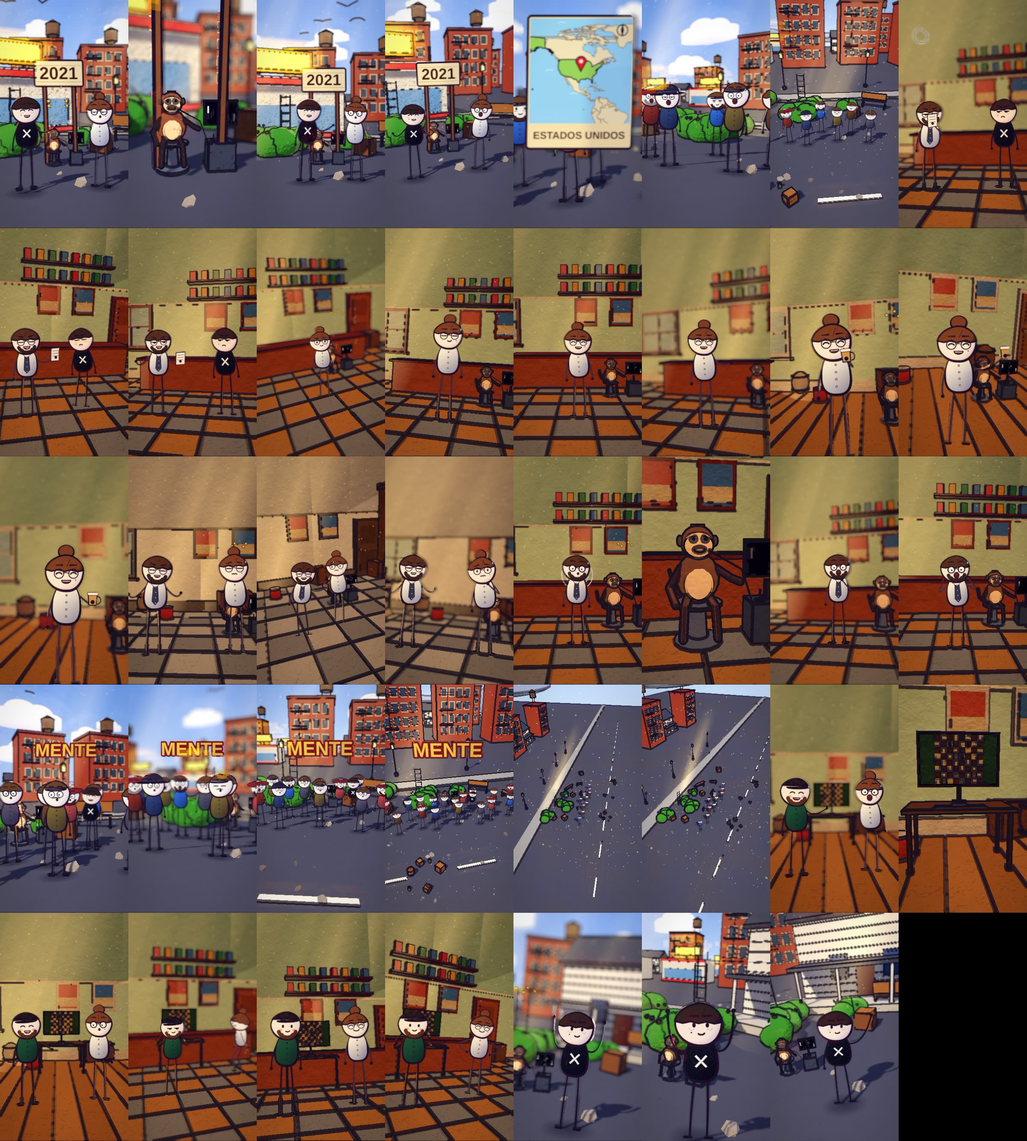
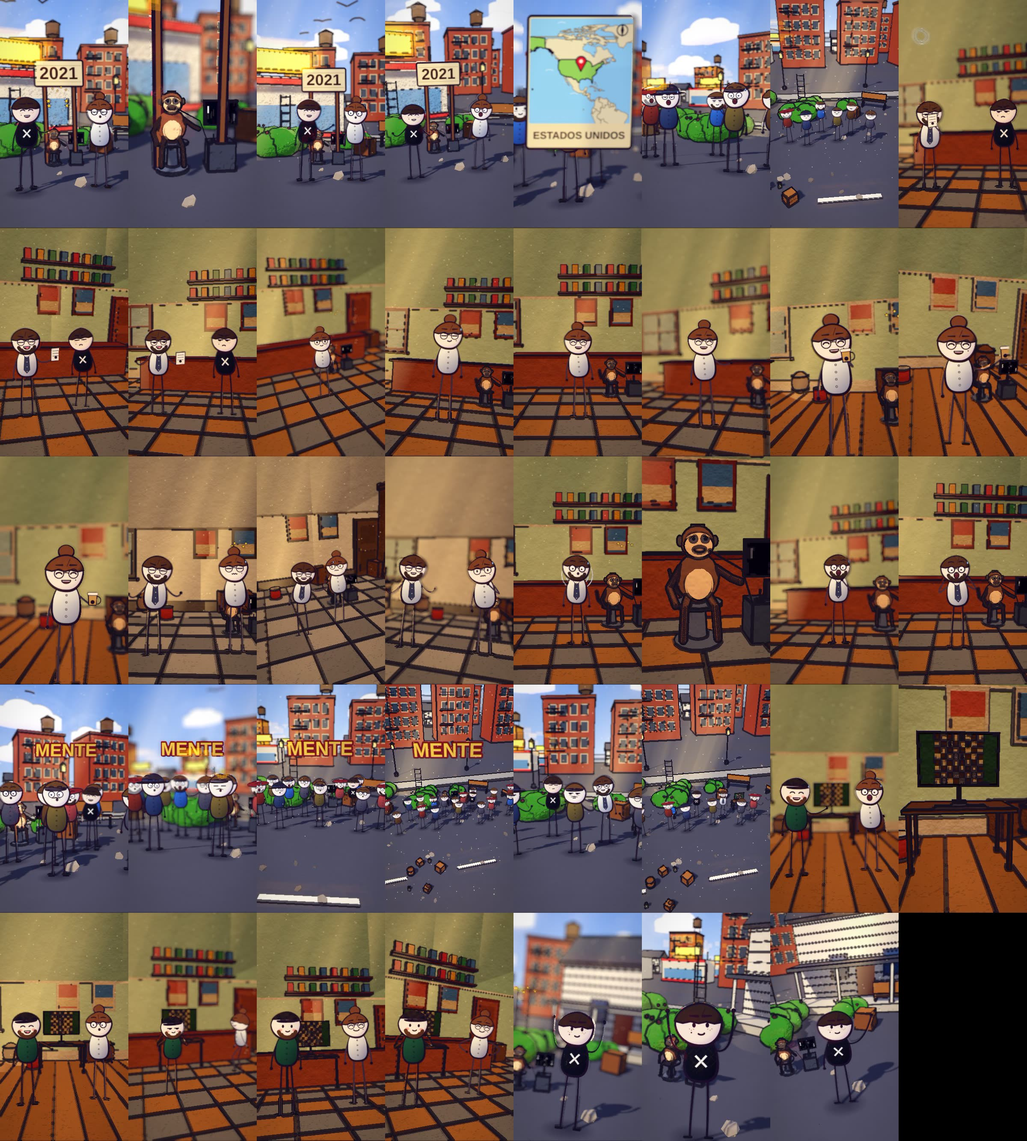
wrestlemania aprovado

Changed region(s): [[0.5, 0.5917, 0.75, 0.8098]]

diff --git a/ferramenta-shorts/stories/neuralink2021/spec.js b/ferramenta-shorts/stories/neuralink2021/spec.js
@@ -1,5 +1,5 @@
 // Poder e Fama EP 19 - O Macaco que Jogou Videogame com a Mente -- GERADO por mkvideo.py a partir de videos/neuralink2021/beats.json (edite o beats.json, nao este arquivo)
-globalThis.REGMAP = {"buildings/house_small": ["kit/rg_eua_1", "kit/rg_eua_2", "kit/rg_eua_3"], "buildings/house_two": ["kit/rg_eua_2", "kit/rg_eua_3", "kit/rg_eua_1"], "buildings/house_blue": ["kit/rg_eua_1", "kit/rg_eua_2", "kit/rg_eua_3"], "buildings/shop": ["kit/rg_eua_3", "kit/rg_eua_1", "kit/rg_eua_2"], "buildings/apartment": ["kit/rg_eua_1", "kit/rg_eua_2", "kit/rg_eua_3"], "buildings/church": ["kit/rg_eua_3", "kit/rg_eua_1", "kit/rg_eua_2"], "buildings/barn": ["kit/rg_eua_1", "kit/rg_eua_2", "kit/rg_eua_3"], "buildings/castle_tower": ["kit/rg_eua_3"], "buildings/windmill": ["kit/rg_eua_1"], "vehicles/tank": ["kit/tanque_moderno"], "ship": ["kit/navio_moderno"]}; globalThis.REGCHAO = "#6a6a70"; globalThis.ASFALTO = true; globalThis.PRAIA = false; globalThis.SEM_NAVIO = true;
+globalThis.REGMAP = {"buildings/house_small": ["kit/rg_eua_1", "kit/rg_eua_2", "kit/rg_eua_3"], "buildings/house_two": ["kit/rg_eua_2", "kit/rg_eua_3", "kit/rg_eua_1"], "buildings/house_blue": ["kit/rg_eua_1", "kit/rg_eua_2", "kit/rg_eua_3"], "buildings/shop": ["kit/rg_eua_3", "kit/rg_eua_1", "kit/rg_eua_2"], "buildings/apartment": ["kit/rg_eua_1", "kit/rg_eua_2", "kit/rg_eua_3"], "buildings/church": ["kit/rg_eua_3", "kit/rg_eua_1", "kit/rg_eua_2"], "buildings/barn": ["kit/rg_eua_1", "kit/rg_eua_2", "kit/rg_eua_3"], "buildings/castle_tower": ["kit/rg_eua_3"], "buildings/windmill": ["kit/rg_eua_1"], "vehicles/tank": ["kit/tanque_moderno"], "ship": ["kit/navio_moderno"]}; globalThis.REGCHAO = "#6a6a70"; globalThis.ASFALTO = true; globalThis.CAMPO_FUTEBOL = false; globalThis.PRAIA = false; globalThis.SEM_NAVIO = true;
 const X = 12000, DK = 6; const X_hall = 8000;
 const WS = (i, off = 0) => TIMING.words[Math.min(i, TIMING.words.length - 1)][0] + off;   // frame em que a palavra de indice i comeca
 const A = [0, WS(17, -3), WS(35, -3), WS(54, -3), WS(73, -3), WS(88, -3), WS(101, -3), WS(117, -3), WS(136, -3), WS(153, -3), WS(174, -3), WS(187, -3), TOTAL_F()];
@@ -21,7 +21,7 @@ const SPEC = {
     S('b5', A[5], A[6] - 1, X_hall, "study", { h: 2.3, d0: 8.4, d1: 7.4, vary: false, hero: { hero: 'any', frame: 'medium', minH: 0.07, main: 2 }, trans: 'dissolve', actors: [Object.assign(pp(X_hall, "CIM", 0, -1.15, 1.3, "suspicious", { pose: 'talk', inter: { k: 'lean', a: Math.round(A[5] + (A[6] - 1 - (A[5])) * 0.12), b: Math.round(A[5] + (A[6] - 1 - (A[5])) * 0.82), dir: 1, n: 2, ph: 0 } }), { gests: [[WS(92) - 4, WS(92) + 46, 'point']] }), pp(X_hall, "CIE", 0, 1.15, 1.0, "nervous", { pose: 'react', inter: { k: 'lean', a: Math.round(A[5] + (A[6] - 1 - (A[5])) * 0.2), b: Math.round(A[5] + (A[6] - 1 - (A[5])) * 0.9), dir: -1, n: 2, ph: 3.14 } })], props: [{ asset: "kit/room_eua_stone", at: [X_hall, 0], s: 1, drop: false }, { asset: "mk/Bookcase_2", at: [X_hall + 7.4, -3.4], s: 2.4, drop: false }, { asset: "mk/Table_Large", at: [X_hall + -6.6, -1.6], s: 2.2, drop: false }, { asset: "mk/Chair_1", at: [X_hall + -4.4, -1.2], s: 2.2, drop: false }, { asset: "mk/Chest_Wood", at: [X_hall + 6.9, 0.6], s: 2.2, drop: false }, { asset: "kit/monkey_pong", at: [X_hall + 1.6, -0.8], s: 1.1, drop: false }], fx: [{ k: 'stars', a: A[5] + 6, b: A[5] + 40, at: [X_hall + 1.6, DK + 1.6, -0.3], s: 0.8 }] }),
     S('b6', A[6], Math.round(A[6] + (A[7] - 1 + 1 - (A[6])) * 0.36) - 1, X_hall, "study", { h: 2.3, d0: 8.4, d1: 7.4, vary: false, hero: { hero: 'any', frame: 'medium', minH: 0.07, main: 1 }, trans: 'dissolve', actors: [Object.assign(pp(X_hall, "CIM", 0, 0.0, 1.3, "shock", { pose: 'react' }), { gests: [[WS(105) - 4, WS(105) + 46, 'reach']] })], props: [{ asset: "kit/room_eua_shop", at: [X_hall, 0], s: 1, drop: false }, { asset: "kit/monkey_pong", at: [X_hall + 1.9, -0.6], s: 1.5, drop: false }], fx: [{ k: 'stars', a: A[6] + 6, b: A[6] + 40, at: [X_hall + 1.9, DK + 1.6, -0.1], s: 0.8 }, { k: "ring", a: A[6] + 20, b: A[6] + 46, at: [X_hall, DK + 0.5, 1.2], s: 1.1 }, { k: "stars", a: A[6] + 50, b: A[6] + 76, at: [X_hall, DK + 0.5, 1.2], s: 1.1 }] }), { ...S('b6_d', Math.round(A[6] + (A[7] - 1 + 1 - (A[6])) * 0.36), Math.round(A[6] + (A[7] - 1 + 1 - (A[6])) * 0.6) - 1, X_hall, "study", { h: 2.3, d0: 8.4, d1: 7.4, vary: false, hero: { hero: 'none', detalhe: true }, trans: 'cut', actors: [Object.assign(pp(X_hall, "CIM", 0, 0.0, 1.3, "shock", { pose: 'react' }), { gests: [[WS(105) - 4, WS(105) + 46, 'reach']] })], props: [{ asset: "kit/room_eua_shop", at: [X_hall, 0], s: 1, drop: false }, { asset: "kit/monkey_pong", at: [X_hall + 1.9, -0.6], s: 1.5, drop: false }], fx: [{ k: 'stars', a: A[6] + 6, b: A[6] + 40, at: [X_hall + 1.9, DK + 1.6, -0.1], s: 0.8 }, { k: "ring", a: A[6] + 20, b: A[6] + 46, at: [X_hall, DK + 0.5, 1.2], s: 1.1 }, { k: "stars", a: A[6] + 50, b: A[6] + 76, at: [X_hall, DK + 0.5, 1.2], s: 1.1 }] }), cam: [{ f: Math.round(A[6] + (A[7] - 1 + 1 - (A[6])) * 0.36), at: [X_hall + 1.9, DK + 1.125, -0.6], d: 4.2, az: -14, el: 10, fov: 44 }, { f: Math.round(A[6] + (A[7] - 1 + 1 - (A[6])) * 0.6) - 1, at: [X_hall + 1.9, DK + 1.125, -0.6], d: 3.4, az: -8, el: 9, fov: 44 }], nocut: true, vary: false, glide: true, glideN: 34 }, { ...S('b6_v', Math.round(A[6] + (A[7] - 1 + 1 - (A[6])) * 0.6), A[7] - 1, X_hall, "study", { h: 2.3, d0: 8.4, d1: 7.4, vary: false, hero: { hero: 'any', frame: 'medium', minH: 0.07, main: 1 }, trans: 'cut', actors: [Object.assign(pp(X_hall, "CIM", 0, 0.0, 1.3, "shock", { pose: 'react' }), { gests: [[WS(105) - 4, WS(105) + 46, 'reach']] })], props: [{ asset: "kit/room_eua_shop", at: [X_hall, 0], s: 1, drop: false }, { asset: "kit/monkey_pong", at: [X_hall + 1.9, -0.6], s: 1.5, drop: false }], fx: [{ k: 'stars', a: A[6] + 6, b: A[6] + 40, at: [X_hall + 1.9, DK + 1.6, -0.1], s: 0.8 }, { k: "ring", a: A[6] + 20, b: A[6] + 46, at: [X_hall, DK + 0.5, 1.2], s: 1.1 }, { k: "stars", a: A[6] + 50, b: A[6] + 76, at: [X_hall, DK + 0.5, 1.2], s: 1.1 }] }), glide: true, glideN: 34 },
     { ...{ ...S('b7', A[7], Math.round(A[7] + (A[8] - 1 + 1 - (A[7])) * 0.3) - 1, X, "day", { h: 2.6, d0: 25.0, d1: 19.0, el: 11, cx: 0.0, cz: -1.5, hero: { hero: 'none', wide: true }, vary: false, nocut: true, trans: 'dissolve', actors: [Object.assign(pp(X, "POV", 0, -2.1, -0.4, "shock", { pose: 'react' }), { gests: [[WS(125) - 4, WS(129) - 4, 'point'], [WS(129) - 4, WS(129) + 46, 'point']] }), pp(X, "POV", 1, 0.0, 0.2, "surprised"), pp(X, "MUS", 0, 2.1, -0.8, "grin"), pp(X, "POV", 0, -8.05, 0.84, "surprised", { look: -0.25, seed: 0 }), pp(X, "POV", 1, -5.79, 1.32, "surprised", { look: 0.25, seed: 1 }), pp(X, "POV", 2, -3.53, 0.96, "surprised", { look: 0.0, seed: 2 }), pp(X, "POV", 3, -2.26, 1.44, "surprised", { look: 0.15, seed: 3 }), pp(X, "POV", 4, 0.0, 1.08, "surprised", { look: -0.25, seed: 0 }), pp(X, "POV", 5, 2.26, 1.56, "surprised", { look: 0.25, seed: 1 }), pp(X, "POV", 6, 3.53, 1.2, "surprised", { look: 0.0, seed: 2 }), pp(X, "POV", 0, 5.79, 0.84, "surprised", { look: 0.15, seed: 3 }), pp(X, "POV", 1, 8.05, 1.32, "surprised", { look: -0.25, seed: 0 }), pp(X, "POV", 2, -6.88, -1.14, "surprised", { look: 0.25, seed: 1 }), pp(X, "POV", 3, -4.62, -0.66, "surprised", { look: 0.0, seed: 2 }), pp(X, "POV", 4, -3.35, -1.02, "surprised", { look: 0.15, seed: 3 }), pp(X, "POV", 5, -1.09, -0.54, "surprised", { look: -0.25, seed: 0 }), pp(X, "POV", 6, 1.17, -0.9, "surprised", { look: 0.25, seed: 1 }), pp(X, "POV", 0, 2.44, -1.26, "surprised", { look: 0.0, seed: 2 }), pp(X, "POV", 1, 4.7, -0.78, "surprised", { look: 0.15, seed: 3 }), pp(X, "POV", 2, 6.96, -1.14, "surprised", { look: -0.25, seed: 0 }), pp(X, "POV", 3, 8.23, -0.66, "surprised", { look: 0.25, seed: 1 })], props: [{ asset: "kit/monkey_pong", at: [X + 0, -3.0], s: 1.4, drop: false }], fx: [{ k: 'birds', a: A[7], b: A[8] - 1, at: [X, DK + 6.0, -30], n: 5, dir: -1, off: 15 }, txt(X, WS(117, -2), A[8] - 1, "MENTE", '#e8c45a', '#7a1c1c', 4.8, { s: 1.5, up: 0.42 }), { k: "ring", a: A[7] + 30, b: A[7] + 56, at: [X, DK + 0.5, 1.2], s: 1.1 }] }), nocut: true }, cam: [{ f: A[7], at: [X + 0.0, DK + 2.2, 0.5], d: 8.5, az: -26, el: 2, fov: 44 }, { f: Math.round(A[7] + (A[8] - 1 + 1 - (A[7])) * 0.3) - 1, at: [X + 1.0, DK + 2.2, 0.5], d: 7.4, az: -14, el: 3, fov: 44 }], nocut: true, vary: false }, { ...{ ...S('b7_1', Math.round(A[7] + (A[8] - 1 + 1 - (A[7])) * 0.3), Math.round(A[7] + (A[8] - 1 + 1 - (A[7])) * 0.55) - 1, X, "day", { h: 2.6, d0: 25.0, d1: 19.0, el: 11, cx: 0.0, cz: -1.5, hero: { hero: 'none', wide: true }, vary: false, nocut: true, trans: 'cut', actors: [Object.assign(pp(X, "POV", 0, -2.1, -0.4, "shock", { pose: 'react' }), { gests: [[WS(125) - 4, WS(129) - 4, 'point'], [WS(129) - 4, WS(129) + 46, 'point']] }), pp(X, "POV", 1, 0.0, 0.2, "surprised"), pp(X, "MUS", 0, 2.1, -0.8, "grin"), pp(X, "POV", 0, -8.05, 0.84, "surprised", { look: -0.25, seed: 0 }), pp(X, "POV", 1, -5.79, 1.32, "surprised", { look: 0.25, seed: 1 }), pp(X, "POV", 2, -3.53, 0.96, "surprised", { look: 0.0, seed: 2 }), pp(X, "POV", 3, -2.26, 1.44, "surprised", { look: 0.15, seed: 3 }), pp(X, "POV", 4, 0.0, 1.08, "surprised", { look: -0.25, seed: 0 }), pp(X, "POV", 5, 2.26, 1.56, "surprised", { look: 0.25, seed: 1 }), pp(X, "POV", 6, 3.53, 1.2, "surprised", { look: 0.0, seed: 2 }), pp(X, "POV", 0, 5.79, 0.84, "surprised", { look: 0.15, seed: 3 }), pp(X, "POV", 1, 8.05, 1.32, "surprised", { look: -0.25, seed: 0 }), pp(X, "POV", 2, -6.88, -1.14, "surprised", { look: 0.25, seed: 1 }), pp(X, "POV", 3, -4.62, -0.66, "surprised", { look: 0.0, seed: 2 }), pp(X, "POV", 4, -3.35, -1.02, "surprised", { look: 0.15, seed: 3 }), pp(X, "POV", 5, -1.09, -0.54, "surprised", { look: -0.25, seed: 0 }), pp(X, "POV", 6, 1.17, -0.9, "surprised", { look: 0.25, seed: 1 }), pp(X, "POV", 0, 2.44, -1.26, "surprised", { look: 0.0, seed: 2 }), pp(X, "POV", 1, 4.7, -0.78, "surprised", { look: 0.15, seed: 3 }), pp(X, "POV", 2, 6.96, -1.14, "surprised", { look: -0.25, seed: 0 }), pp(X, "POV", 3, 8.23, -0.66, "surprised", { look: 0.25, seed: 1 })], props: [{ asset: "kit/monkey_pong", at: [X + 0, -3.0], s: 1.4, drop: false }], fx: [{ k: 'birds', a: A[7], b: A[8] - 1, at: [X, DK + 6.0, -30], n: 5, dir: -1, off: 15 }, txt(X, WS(117, -2), A[8] - 1, "MENTE", '#e8c45a', '#7a1c1c', 4.8, { s: 1.5, up: 0.42 }), { k: "ring", a: A[7] + 30, b: A[7] + 56, at: [X, DK + 0.5, 1.2], s: 1.1 }] }), nocut: true }, cam: [{ f: Math.round(A[7] + (A[8] - 1 + 1 - (A[7])) * 0.3), at: [X + -6.0, DK + 1.8, 0.0], d: 11, az: 30, el: 5, fov: 46 }, { f: Math.round(A[7] + (A[8] - 1 + 1 - (A[7])) * 0.55) - 1, at: [X + 4.0, DK + 1.8, 0.0], d: 11, az: 18, el: 5, fov: 46, ease: "lin" }], nocut: true, vary: false, glide: true }, { ...{ ...S('b7_2', Math.round(A[7] + (A[8] - 1 + 1 - (A[7])) * 0.55), A[8] - 1, X, "day", { h: 2.6, d0: 25.0, d1: 19.0, el: 11, cx: 0.0, cz: -1.5, hero: { hero: 'none', wide: true }, vary: false, nocut: true, trans: 'cut', actors: [Object.assign(pp(X, "POV", 0, -2.1, -0.4, "shock", { pose: 'react' }), { gests: [[WS(125) - 4, WS(129) - 4, 'point'], [WS(129) - 4, WS(129) + 46, 'point']] }), pp(X, "POV", 1, 0.0, 0.2, "surprised"), pp(X, "MUS", 0, 2.1, -0.8, "grin"), pp(X, "POV", 0, -8.05, 0.84, "surprised", { look: -0.25, seed: 0 }), pp(X, "POV", 1, -5.79, 1.32, "surprised", { look: 0.25, seed: 1 }), pp(X, "POV", 2, -3.53, 0.96, "surprised", { look: 0.0, seed: 2 }), pp(X, "POV", 3, -2.26, 1.44, "surprised", { look: 0.15, seed: 3 }), pp(X, "POV", 4, 0.0, 1.08, "surprised", { look: -0.25, seed: 0 }), pp(X, "POV", 5, 2.26, 1.56, "surprised", { look: 0.25, seed: 1 }), pp(X, "POV", 6, 3.53, 1.2, "surprised", { look: 0.0, seed: 2 }), pp(X, "POV", 0, 5.79, 0.84, "surprised", { look: 0.15, seed: 3 }), pp(X, "POV", 1, 8.05, 1.32, "surprised", { look: -0.25, seed: 0 }), pp(X, "POV", 2, -6.88, -1.14, "surprised", { look: 0.25, seed: 1 }), pp(X, "POV", 3, -4.62, -0.66, "surprised", { look: 0.0, seed: 2 }), pp(X, "POV", 4, -3.35, -1.02, "surprised", { look: 0.15, seed: 3 }), pp(X, "POV", 5, -1.09, -0.54, "surprised", { look: -0.25, seed: 0 }), pp(X, "POV", 6, 1.17, -0.9, "surprised", { look: 0.25, seed: 1 }), pp(X, "POV", 0, 2.44, -1.26, "surprised", { look: 0.0, seed: 2 }), pp(X, "POV", 1, 4.7, -0.78, "surprised", { look: 0.15, seed: 3 }), pp(X, "POV", 2, 6.96, -1.14, "surprised", { look: -0.25, seed: 0 }), pp(X, "POV", 3, 8.23, -0.66, "surprised", { look: 0.25, seed: 1 })], props: [{ asset: "kit/monkey_pong", at: [X + 0, -3.0], s: 1.4, drop: false }], fx: [{ k: 'birds', a: A[7], b: A[8] - 1, at: [X, DK + 6.0, -30], n: 5, dir: -1, off: 15 }, txt(X, WS(117, -2), A[8] - 1, "MENTE", '#e8c45a', '#7a1c1c', 4.8, { s: 1.5, up: 0.42 }), { k: "ring", a: A[7] + 30, b: A[7] + 56, at: [X, DK + 0.5, 1.2], s: 1.1 }] }), nocut: true }, cam: [{ f: Math.round(A[7] + (A[8] - 1 + 1 - (A[7])) * 0.55), at: [X + 0.0, DK + 1.4, 0.0], d: 15, az: 8, el: 12, fov: 48 }, { f: A[8] - 1, at: [X + 0.0, DK + 1.0, -3.0], d: 34, az: -16, el: 30, fov: 48 }], nocut: true, vary: false, glide: true },
-    { ...S('b8', A[8], A[9] - 1, X, "day", { h: 1.0, d0: 62.0, d1: 52.0, el: 40, fov: 56, az0: -78, az1: -64, cx: 0.0, cz: -1.5, hero: { hero: 'none', wide: true }, vary: false, nocut: true, trans: 'dissolve', actors: [pp(X, "MUS", 0, -1.15, -0.4, "smug", { pose: 'argue' }), pp(X, "CIM", 0, 1.15, 0.2, "grin", { pose: 'argue' }), pp(X, "POV", 0, -8.05, 0.84, "neutral", { look: -0.25, seed: 0, pose: 'argue' }), pp(X, "POV", 1, -5.79, 1.32, "neutral", { look: 0.25, seed: 4, pose: 'argue' }), pp(X, "POV", 2, -3.53, 0.96, "neutral", { look: 0.0, seed: 8, pose: 'argue' }), pp(X, "POV", 3, -2.26, 1.44, "neutral", { look: 0.15, seed: 12, pose: 'argue' }), pp(X, "POV", 4, 0.0, 1.08, "neutral", { look: -0.25, seed: 12, pose: 'argue' }), pp(X, "POV", 5, 2.26, 1.56, "neutral", { look: 0.25, seed: 16, pose: 'argue' }), pp(X, "POV", 6, 3.53, 1.2, "neutral", { look: 0.0, seed: 20, pose: 'argue' }), pp(X, "POV", 0, 5.79, 0.84, "neutral", { look: 0.15, seed: 24, pose: 'argue' })], props: [{ asset: "kit/chess_pc", at: [X + 3.15, -1.2], s: 1.0, drop: false }, { asset: "kit/phone", at: [X + -3.15, -0.8], s: 1.0, drop: false }], fx: [{ k: 'birds', a: A[8], b: A[9] - 1, at: [X, DK + 7.5, -30], n: 6, dir: 1, off: 8 }] }), nocut: true },
+    { ...{ ...S('b8', A[8], A[9] - 1, X, "day", { h: 2.4, d0: 11.0, d1: 27.0, el: 10, fov: 46, cx: 0.0, cz: -1.5, hero: { hero: 'none', wide: true }, vary: false, nocut: true, trans: 'dissolve', actors: [pp(X, "MUS", 0, -1.15, -0.4, "smug", { pose: 'argue' }), pp(X, "CIM", 0, 1.15, 0.2, "grin", { pose: 'argue' }), pp(X, "POV", 0, -8.05, 0.84, "neutral", { look: -0.25, seed: 0, pose: 'argue' }), pp(X, "POV", 1, -5.79, 1.32, "neutral", { look: 0.25, seed: 4, pose: 'argue' }), pp(X, "POV", 2, -3.53, 0.96, "neutral", { look: 0.0, seed: 8, pose: 'argue' }), pp(X, "POV", 3, -2.26, 1.44, "neutral", { look: 0.15, seed: 12, pose: 'argue' }), pp(X, "POV", 4, 0.0, 1.08, "neutral", { look: -0.25, seed: 12, pose: 'argue' }), pp(X, "POV", 5, 2.26, 1.56, "neutral", { look: 0.25, seed: 16, pose: 'argue' }), pp(X, "POV", 6, 3.53, 1.2, "neutral", { look: 0.0, seed: 20, pose: 'argue' }), pp(X, "POV", 0, 5.79, 0.84, "neutral", { look: 0.15, seed: 24, pose: 'argue' })], props: [{ asset: "kit/chess_pc", at: [X + 3.15, -1.2], s: 1.0, drop: false }, { asset: "kit/phone", at: [X + -3.15, -0.8], s: 1.0, drop: false }], fx: [{ k: 'birds', a: A[8], b: A[9] - 1, at: [X, DK + 7.5, -30], n: 6, dir: 1, off: 8 }] }), nocut: true }, cam: [{ f: A[8], at: [X + 0.0, DK + 2.0, 0.5], d: 9, az: 10, el: 5, fov: 46 }, { f: A[9] - 1, at: [X + 0.0, DK + 1.0, -2.0], d: 30, az: -14, el: 30, fov: 48 }], nocut: true },
     S('b9', A[9], Math.round(A[9] + (A[10] - 1 + 1 - (A[9])) * 0.36) - 1, X_hall, "study", { h: 2.3, d0: 8.4, d1: 7.4, vary: false, hero: { hero: 'any', frame: 'medium', minH: 0.07, main: 2 }, trans: 'dissolve', actors: [Object.assign(pp(X_hall, "NOL", 0, -1.15, 1.3, "grin", { pose: 'talk', inter: { k: 'step', a: Math.round(A[9] + (A[10] - 1 - (A[9])) * 0.12), b: Math.round(A[9] + (A[10] - 1 - (A[9])) * 0.82), dir: 1, n: 2, ph: 0 } }), { gests: [[WS(164) - 4, WS(173) - 4, 'reach'], [WS(173) - 4, WS(173) + 46, 'think']] }), pp(X_hall, "CIE", 0, 1.15, 1.0, "surprised", { pose: 'talk', inter: { k: 'nod', a: Math.round(A[9] + (A[10] - 1 - (A[9])) * 0.2), b: Math.round(A[9] + (A[10] - 1 - (A[9])) * 0.9), dir: -1, n: 2, ph: 3.14 } })], props: [{ asset: "kit/room_eua_wood", at: [X_hall, 0], s: 1, drop: false }, { asset: "mk/Bookcase_2", at: [X_hall + 7.4, -3.4], s: 2.4, drop: false }, { asset: "mk/Table_Large", at: [X_hall + -6.6, -1.6], s: 2.2, drop: false }, { asset: "mk/Chair_1", at: [X_hall + -4.4, -1.2], s: 2.2, drop: false }, { asset: "mk/Chest_Wood", at: [X_hall + 6.9, 0.6], s: 2.2, drop: false }, { asset: "kit/chess_pc", at: [X_hall + 0.0, -2.3], s: 1.7, drop: false }], fx: [{ k: "stars", a: A[9] + 40, b: A[9] + 66, at: [X_hall, DK + 0.5, 1.2], s: 1.1 }, { k: 'ring', a: WS(173) + 6, b: WS(173) + 34, at: [X_hall + -1.15, DK + 3.6, 1.5], s: 0.7 }] }), { ...S('b9_d', Math.round(A[9] + (A[10] - 1 + 1 - (A[9])) * 0.36), Math.round(A[9] + (A[10] - 1 + 1 - (A[9])) * 0.6) - 1, X_hall, "study", { h: 2.3, d0: 8.4, d1: 7.4, vary: false, hero: { hero: 'none', detalhe: true }, trans: 'cut', actors: [Object.assign(pp(X_hall, "NOL", 0, -1.15, 1.3, "grin", { pose: 'stand' }), { gests: [[WS(164) - 4, WS(173) - 4, 'reach'], [WS(173) - 4, WS(173) + 46, 'think']] }), pp(X_hall, "CIE", 0, 1.15, 1.0, "surprised", { pose: 'stand' })], props: [{ asset: "kit/room_eua_wood", at: [X_hall, 0], s: 1, drop: false }, { asset: "mk/Bookcase_2", at: [X_hall + 7.4, -3.4], s: 2.4, drop: false }, { asset: "mk/Table_Large", at: [X_hall + -6.6, -1.6], s: 2.2, drop: false }, { asset: "mk/Chair_1", at: [X_hall + -4.4, -1.2], s: 2.2, drop: false }, { asset: "mk/Chest_Wood", at: [X_hall + 6.9, 0.6], s: 2.2, drop: false }, { asset: "kit/chess_pc", at: [X_hall + 0.0, -2.3], s: 1.7, drop: false }], fx: [{ k: "stars", a: A[9] + 40, b: A[9] + 66, at: [X_hall, DK + 0.5, 1.2], s: 1.1 }, { k: 'ring', a: WS(173) + 6, b: WS(173) + 34, at: [X_hall + -1.15, DK + 3.6, 1.5], s: 0.7 }] }), cam: [{ f: Math.round(A[9] + (A[10] - 1 + 1 - (A[9])) * 0.36), at: [X_hall + 0.0, DK + 1.275, -2.3], d: 4.2, az: -14, el: 10, fov: 44 }, { f: Math.round(A[9] + (A[10] - 1 + 1 - (A[9])) * 0.6) - 1, at: [X_hall + 0.0, DK + 1.275, -2.3], d: 3.4, az: -8, el: 9, fov: 44 }], nocut: true, vary: false, glide: true, glideN: 34 }, { ...S('b9_v', Math.round(A[9] + (A[10] - 1 + 1 - (A[9])) * 0.6), A[10] - 1, X_hall, "study", { h: 2.3, d0: 8.4, d1: 7.4, vary: false, hero: { hero: 'any', frame: 'medium', minH: 0.07, main: 2 }, trans: 'cut', actors: [Object.assign(pp(X_hall, "NOL", 0, -1.15, 1.3, "grin", { pose: 'talk', inter: { k: 'step', a: Math.round(A[9] + (A[10] - 1 - (A[9])) * 0.12), b: Math.round(A[9] + (A[10] - 1 - (A[9])) * 0.82), dir: 1, n: 2, ph: 0 } }), { gests: [[WS(164) - 4, WS(173) - 4, 'reach'], [WS(173) - 4, WS(173) + 46, 'think']] }), pp(X_hall, "CIE", 0, 1.15, 1.0, "surprised", { pose: 'talk', inter: { k: 'nod', a: Math.round(A[9] + (A[10] - 1 - (A[9])) * 0.2), b: Math.round(A[9] + (A[10] - 1 - (A[9])) * 0.9), dir: -1, n: 2, ph: 3.14 } })], props: [{ asset: "kit/room_eua_wood", at: [X_hall, 0], s: 1, drop: false }, { asset: "mk/Bookcase_2", at: [X_hall + 7.4, -3.4], s: 2.4, drop: false }, { asset: "mk/Table_Large", at: [X_hall + -6.6, -1.6], s: 2.2, drop: false }, { asset: "mk/Chair_1", at: [X_hall + -4.4, -1.2], s: 2.2, drop: false }, { asset: "mk/Chest_Wood", at: [X_hall + 6.9, 0.6], s: 2.2, drop: false }, { asset: "kit/chess_pc", at: [X_hall + 0.0, -2.3], s: 1.7, drop: false }], fx: [{ k: "stars", a: A[9] + 40, b: A[9] + 66, at: [X_hall, DK + 0.5, 1.2], s: 1.1 }, { k: 'ring', a: WS(173) + 6, b: WS(173) + 34, at: [X_hall + -1.15, DK + 3.6, 1.5], s: 0.7 }] }), glide: true, glideN: 34 },
     S('b10', A[10], A[11] - 1, X_hall, "study", { h: 2.3, d0: 8.4, d1: 7.4, hero: { hero: 'any', frame: 'medium', minH: 0.07, main: 2 }, trans: 'dissolve', actors: [pp(X_hall, "NOL", 0, -1.15, 1.3, "smile", { pose: 'react', inter: { k: 'lunge', a: Math.round(A[10] + (A[11] - 1 - (A[10])) * 0.12), b: Math.round(A[10] + (A[11] - 1 - (A[10])) * 0.82), dir: 1, n: 2, ph: 0 } }), { outfit: "CIE", v: 0, at: [X_hall + 3.55, -0.6], move: [[X_hall + 1.15, 1.0], A[10], Math.round(A[10] + Math.min(48, (A[11] - 1 - (A[10])) * 0.3)), 'lin'], arrive: true, walk: "stroll", look: -0.4, expr: "happy" }], props: [{ asset: "kit/room_eua_shop", at: [X_hall, 0], s: 1, drop: false }, { asset: "kit/chess_pc", at: [X_hall + 0.0, -1.6], s: 1.7, drop: false }], fx: [{ k: "stars", a: A[10] + 40, b: A[10] + 66, at: [X_hall, DK + 0.5, 1.2], s: 1.1 }] }),
     S('b11', A[11], A[12] - 1, X, "day", { h: 2.4, d0: 5.6, d1: 4.9, hero: { hero: 'any', frame: 'medium', minH: 0.07, main: 1 }, trans: 'dissolve', actors: [pp(X, "MUS", 0, 0.0, 1.3, "smile", { pose: 'cheer' })], props: [{ asset: "buildings/house_two", at: [X + 4.8, -11.0], s: 1.05, ry: -0.35, drop: false }, { asset: "kit/monkey_pong", at: [X + -1.4, -0.8], s: 1.0, drop: false }], fx: [{ k: 'stars', a: A[11] + 6, b: A[11] + 40, at: [X + -1.4, DK + 1.6, -0.3], s: 0.8 }] })

diff --git a/ferramenta-shorts/stories/trumpgame1989/spec.js b/ferramenta-shorts/stories/trumpgame1989/spec.js
@@ -1,5 +1,5 @@
 // Poder e Fama EP 18 - O Jogo de Tabuleiro do Trump -- GERADO por mkvideo.py a partir de videos/trumpgame1989/beats.json (edite o beats.json, nao este arquivo)
-globalThis.REGMAP = {"buildings/house_small": ["kit/rg_eua_1", "kit/rg_eua_2", "kit/rg_eua_3"], "buildings/house_two": ["kit/rg_eua_2", "kit/rg_eua_3", "kit/rg_eua_1"], "buildings/house_blue": ["kit/rg_eua_1", "kit/rg_eua_2", "kit/rg_eua_3"], "buildings/shop": ["kit/rg_eua_3", "kit/rg_eua_1", "kit/rg_eua_2"], "buildings/apartment": ["kit/rg_eua_1", "kit/rg_eua_2", "kit/rg_eua_3"], "buildings/church": ["kit/rg_eua_3", "kit/rg_eua_1", "kit/rg_eua_2"], "buildings/barn": ["kit/rg_eua_1", "kit/rg_eua_2", "kit/rg_eua_3"], "buildings/castle_tower": ["kit/rg_eua_3"], "buildings/windmill": ["kit/rg_eua_1"], "vehicles/tank": ["kit/tanque_moderno"], "ship": ["kit/navio_moderno"]}; globalThis.REGCHAO = "#6a6a70"; globalThis.ASFALTO = true; globalThis.PRAIA = false; globalThis.SEM_NAVIO = false;
+globalThis.REGMAP = {"buildings/house_small": ["kit/rg_eua_1", "kit/rg_eua_2", "kit/rg_eua_3"], "buildings/house_two": ["kit/rg_eua_2", "kit/rg_eua_3", "kit/rg_eua_1"], "buildings/house_blue": ["kit/rg_eua_1", "kit/rg_eua_2", "kit/rg_eua_3"], "buildings/shop": ["kit/rg_eua_3", "kit/rg_eua_1", "kit/rg_eua_2"], "buildings/apartment": ["kit/rg_eua_1", "kit/rg_eua_2", "kit/rg_eua_3"], "buildings/church": ["kit/rg_eua_3", "kit/rg_eua_1", "kit/rg_eua_2"], "buildings/barn": ["kit/rg_eua_1", "kit/rg_eua_2", "kit/rg_eua_3"], "buildings/castle_tower": ["kit/rg_eua_3"], "buildings/windmill": ["kit/rg_eua_1"], "vehicles/tank": ["kit/tanque_moderno"], "ship": ["kit/navio_moderno"]}; globalThis.REGCHAO = "#6a6a70"; globalThis.ASFALTO = true; globalThis.CAMPO_FUTEBOL = false; globalThis.PRAIA = false; globalThis.SEM_NAVIO = false;
 const X = 12000, DK = 6; const X_hall = 8000;
 const WS = (i, off = 0) => TIMING.words[Math.min(i, TIMING.words.length - 1)][0] + off;   // frame em que a palavra de indice i comeca
 const A = [0, WS(21, -3), WS(39, -3), WS(59, -3), WS(78, -3), WS(96, -3), WS(112, -3), WS(127, -3), WS(137, -3), WS(154, -3), WS(174, -3), WS(189, -3), TOTAL_F()];

diff --git a/ferramenta-shorts/stories/wrestlemania2007/auditoria_narracao.md b/ferramenta-shorts/stories/wrestlemania2007/auditoria_narracao.md
@@ -1,5 +1,5 @@
 # AUDITORIA NARRACAO x TELA: wrestlemania2007
-Cenas 100% fieis: 12/12 (100%). Lacunas: 0
+Cenas 100% fieis: 10/12 (83%). Lacunas: 2
 
 ## b0 OK - Antes de virar presidente, Donald Trump entrou num ringue de luta livre, e raspou a cabeça de outro bilionário.
 - na tela: set=['street'] animais=[] objetos=['clipper'] atores=2 acoes_folha3=['entrou', 'raspou']
@@ -9,14 +9,16 @@ Cenas 100% fieis: 12/12 (100%). Lacunas: 0
 - na tela: set=['street'] animais=[] objetos=[] atores=2 acoes_folha3=[]
 ## b3 OK - A aposta era maluca: cada um escolheu um lutador, e o dono de quem perdesse teria a cabeça raspada.
 - na tela: set=['street'] animais=[] objetos=['clipper'] atores=2 acoes_folha3=['escolheu', 'perdesse', 'raspada']
-## b4 OK - Mais de oitenta mil pessoas lotaram o estádio, para ver a Batalha dos Bilionários.
-- na tela: set=['street'] animais=[] objetos=['ball'] atores=33 acoes_folha3=[]
+## b4 LACUNA - Mais de oitenta mil pessoas lotaram o estádio, para ver a Batalha dos Bilionários.
+- na tela: set=['street'] animais=[] objetos=[] atores=33 acoes_folha3=[]
+- **FALTA:** LUGAR/CENARIO narrado (ESTADIO/CAMPO) NAO aparece
 ## b5 OK - No ringue, o lutador de Trump, Bobby Lashley, enfrentou o gigante Umaga, do lado de McMahon.
 - na tela: set=['street'] animais=[] objetos=['ring'] atores=2 acoes_folha3=['enfrentou']
 ## b6 OK - Acontece que o juiz convidado era Steve Austin, famoso por derrubar todo mundo. A luta virou bagunça.
 - na tela: set=['street'] animais=[] objetos=['ring'] atores=32 acoes_folha3=[]
-## b7 OK - No fim, o lutador de Trump venceu. O estádio inteiro foi abaixo.
-- na tela: set=['street'] animais=[] objetos=['ball', 'ring'] atores=25 acoes_folha3=['venceu', 'venceu']
+## b7 LACUNA - No fim, o lutador de Trump venceu. O estádio inteiro foi abaixo.
+- na tela: set=['street'] animais=[] objetos=['ring'] atores=25 acoes_folha3=['venceu', 'venceu']
+- **FALTA:** LUGAR/CENARIO narrado (ESTADIO/CAMPO) NAO aparece
 ## b8 OK - Trump e Lashley seguraram McMahon, e passaram a máquina de raspar na cabeça dele.
 - na tela: set=['street'] animais=[] objetos=['clipper', 'ring'] atores=2 acoes_folha3=['seguraram', 'raspar']
 ## b9 OK - O dono da luta livre saiu do ringue completamente careca.

diff --git a/ferramenta-shorts/stories/wrestlemania2007/revisao_storyboard.md b/ferramenta-shorts/stories/wrestlemania2007/revisao_storyboard.md
@@ -1,0 +1,12 @@
+b0: OK - Trump entrou num ringue de luta livre e raspou a cabeca de outro bilionario: Trump de gravata vermelha e o outro bilionario no estadio com placa 2007 e a maquina de raspar
+b1: OK - foi em abril de dois mil e sete em Detroit no maior show de luta livre do mundo: mapa dos Estados Unidos e a plateia no estadio lotado
+b2: OK - como todo show de luta a rivalidade era combinada, Trump contra Vince McMahon: Trump e McMahon frente a frente discutindo no gramado do estadio
+b3: OK - a aposta era maluca, cada um escolheu um lutador e o dono do perdedor teria a cabeca raspada: Trump e McMahon conversando e a maquina de raspar na mao de um
+b4: OK - mais de oitenta mil pessoas lotaram o estadio para ver a batalha dos bilionarios: placa 80 MIL e a multidao de torcedores de bracos erguidos gritando
+b5: OK - no ringue o lutador de Trump Lashley enfrentou o gigante Umaga do lado de McMahon: dois lutadores de luvas azul e vermelha frente a frente dentro do ringue
+b6: OK - o juiz convidado era Steve Austin famoso por derrubar todo mundo e a luta virou bagunca: juiz careca de barba entre os lutadores com a plateia atras
+b7: OK - no fim o lutador de Trump venceu e o estadio inteiro foi abaixo: placa VITORIA e multidao comemorando de bracos erguidos em volta do ringue
+b8: OK - Trump e Lashley seguraram McMahon e passaram a maquina de raspar na cabeca dele: Trump e McMahon no ringue juntos com a maquina de raspar
+b9: OK - o dono da luta livre saiu do ringue completamente careca: McMahon careca saindo do ringue pelo gramado com Trump ao lado
+b10: OK - ainda sobrou para Trump, o juiz aplicou um golpe nele e ele foi ao chao: Trump e o juiz no ringue em plano aberto, o golpe aparece pequeno
+b11: OK - seis anos depois Trump entrou para o Hall da Fama da luta livre: Trump e McMahon de bracos erguidos no gramado do estadio comemorando

diff --git a/ferramenta-shorts/stories/neuralink2021/folha2_producao.md b/ferramenta-shorts/stories/neuralink2021/folha2_producao.md
@@ -84,7 +84,7 @@ Coordenadas de cada cena para modelagem, animacao e camera, com os RISCOS que o 
 
 ## Cena b8 - O objetivo, segundo a empresa, é ajudar pessoas paralisadas a usar com...
 - Cenario: street | luz: day | clima: limpo
-- Camera: aereo = -
+- Camera: reveal = ABERTO: grua subindo e abrindo para mostrar o lugar (tomada continua)
 - Takes: 1 tomada continua, sem corte (camera abre/gira devagar)
 - Personagens principais (2): MUS (variante 0, expressao smug); CIM (variante 0, expressao grin) | multidao: 8 de POV
 - Animacao: discutir
@@ -133,7 +133,7 @@ kit/phone | b8 | pronto | conferir na folha de contato se le bem; se parecer cai
 
 
 ## Video inteiro
-- Objeto heroi: kit/monkey_pong | grandes momentos: b1, b7 | planos abertos: 3 | mistura: close 19% | medio 60% | aberto 15% | detalhe 6%
+- Objeto heroi: kit/monkey_pong | grandes momentos: b1, b7 | planos abertos: 3 | mistura: close 19% | medio 63% | aberto 11% | detalhe 6%
 - Interacoes: b0 avanca e o outro recua, b2 o outro se aproxima, b5 cochichar, b9 entregar, b10 insiste
 - RISCOS GERAIS: nenhum
 

diff --git a/ferramenta-shorts/stories/neuralink2021/plano.md b/ferramenta-shorts/stories/neuralink2021/plano.md
@@ -10,10 +10,10 @@ b4 | close | -  | interior, objeto na mao | encena: g_ganhava (point) @3 (acao +
 b5 | two | -  | interior | encena: g_gravava (point) @4 (acao + som de efeito) | -
 b6 | two | -  | interior | encena: g_desligar (reach) @4 (acao + som de efeito) | -
 b7 | crowd | -  | batalha aberta com tiros, tropa, placa: MENTE | encena: g_encantou (point) @8 (acao + som de efeito); encena: g_debateu (point) @12 (acao + som de efeito) | -
-b8 | aereo | -  | tropa | - | -
+b8 | reveal | -  | tropa | - | -
 b9 | two | -  | interior | encena: x_entrega (reach) @11 (acao + som de efeito); encena: pensa (think) @20 (acao + som de efeito) | -
 b10 | two | -  | interior | - | -
 b11 | close | -  | - | - | -
 
-Mistura de planos: close 19% | medio 60% | aberto 15% | detalhe 6%  (canal: close 10% | medio+corpo 67% | aberto 19% | detalhe 5-15%)
+Mistura de planos: close 19% | medio 63% | aberto 11% | detalhe 6%  (canal: close 10% | medio+corpo 67% | aberto 19% | detalhe 5-15%)
 Planos abertos: 3 | dentro do padrao do canal

diff --git a/ferramenta-shorts/stories/neuralink2021/preproducao.md b/ferramenta-shorts/stories/neuralink2021/preproducao.md
@@ -12,7 +12,7 @@ b4 | interior madeira | close | 1 | reagir | kit/monkey_pong | mug | -
 b5 | interior pedra | two | 2 | conversar, INTERAGEM: cochichar | kit/monkey_pong | - | -
 b6 | interior loja | two | 1 | reagir | kit/monkey_pong | - | -
 b7 | street | crowd | 21 | reagir, batalha | kit/monkey_pong | - | -
-b8 | street | aereo | 10 | discutir | kit/chess_pc, kit/phone | - | -
+b8 | street | reveal | 10 | discutir | kit/chess_pc, kit/phone | - | -
 b9 | interior madeira | two | 2 | conversar, INTERAGEM: entregar | kit/chess_pc | - | -
 b10 | interior loja | two | 2 | reagir, INTERAGEM: insiste, alguem chega andando | kit/chess_pc | - | -
 b11 | street | close | 1 | comemorar | kit/monkey_pong | - | -

diff --git a/ferramenta-shorts/stories/neuralink2021/folha3_acao.md b/ferramenta-shorts/stories/neuralink2021/folha3_acao.md
@@ -74,7 +74,7 @@ Catalogo de TODAS as acoes do roteiro, frase por frase, com o instante (segundos
 | 3 | - | ATUACAO | reagir | OK |
 | 4 | - | PLACA | MENTE | OK |
 
-## Cena b8 - 49.0s a 54.5s - 17 palavras - plano aereo
+## Cena b8 - 49.0s a 54.5s - 17 palavras - plano reveal
 > "O objetivo, segundo a empresa, é ajudar pessoas paralisadas a usar computadores e celulares com o pensamento."
 
 | # | palavra (instante) | acao catalogada | animacao executada | ok? |
